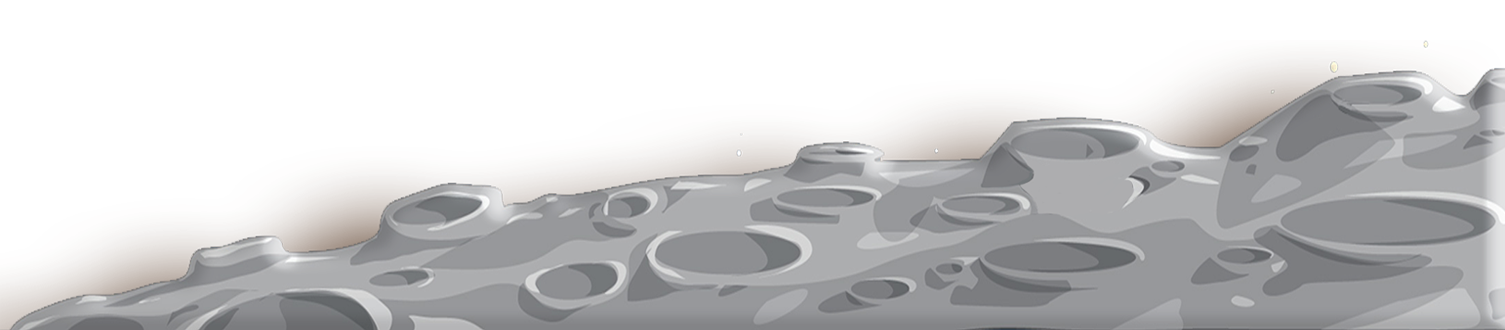
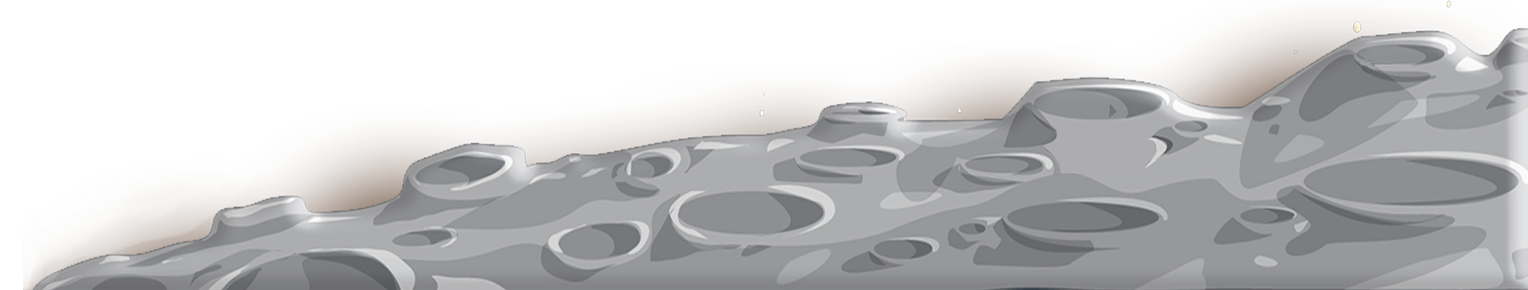
moon_issue

diff --git a/css/style.css b/css/style.css
@@ -1,12 +1,13 @@
     body {
         font-family: 'Palanquin Dark', sans-serif;
         font-size: 24px;
-        max-width: 1920px;
-        width: 100%;
+        max-width: 1900px;
         height: 100vh;
-        margin: auto;
-        background-color: black;
-        overflow: hidden;
+        margin: 0;
+        padding: 0;
+        overflow-x: hidden;
+        color: white;
+        background-color: #0003;
     }
     /*PArt_1_HELP*/
     /*back decoration*/
@@ -15,15 +16,14 @@
         background: url(../img/back_1.jpg) no-repeat;
         position: absolute;
         width: 100%;
-        height: 100%;
+        height: auto;
     }
     
     .moon {
-        background: url(../img/moon.png) no-repeat;
+        /* background: url(../img/moon.png) no-repeat; */
         width: 100%;
         height: 100%;
-        margin-left: 395px;
-        margin-top: 455px;
+        margin-left: 372px;
     }
     /*Logo part*/
     
@@ -41,9 +41,8 @@
         background: url(../img/logo_plate.png) no-repeat top left;
         top: 0;
         width: 100%;
-        height: 100%;
+        height: 30vh;
         position: absolute;
-        z-index: 2;
     }
     
     .logo_text {
@@ -55,6 +54,7 @@
         font-size: 50px;
         line-height: 45px;
         font-weight: 500;
+        z-index: 2;
     }
     
     .logo_text h2 span {
@@ -72,7 +72,7 @@
     /*text plate_Become a Hero*/
     
     .block_hero h2 {
-        margin: 460px auto 20px auto;
+        margin: 260px auto auto auto;
         color: #f1a23e;
         font-size: 50px;
         padding-left: 30%;
@@ -109,21 +109,24 @@
     /*Part_2_TEAM*/
     
     .team {
+        max-width: 1900px;
+        max-height: 1180px;
         width: 100%;
         height: 100%;
         overflow: hidden;
         position: absolute;
+        top: 1180px;
+        left: 0;
     }
     
-    video {
-        max-width: 1920px;
-        height: 100%;
+    .video {
         width: 100%;
+        height: auto;
+        position: absolute;
     }
-    
-    .team_bar {
+    /* .team_bar {
         background: url(../img/board_team.png) no-repeat;
-        top: 100%;
+        top: 110%;
         left: 0;
         width: 100%;
         height: 100%;
@@ -140,4 +143,4 @@
         z-index: 3;
         padding-top: 30px;
         text-align: center;
-    }
+    } */

diff --git a/index.html b/index.html
@@ -9,7 +9,7 @@
     <title>Get-a-Pet - animal shelter</title>
     <link rel="shortcut icon" href="img/favicon.ico" type="image/ico">
     <link rel="stylesheet" href="css/reset.css">
-    <!-- <link rel="stylesheet" href="css/jquery-ui.min.css"> -->
+    <link rel="stylesheet" href="css/jquery-ui.min.css">
     <link href="css/slideWiz.css" rel="stylesheet">
     <link rel="stylesheet" href="css/style.css">
     <script src="js/jquery.js"></script>
@@ -36,16 +36,15 @@
             </div>
         </header>
         <canvas id="loader" width="400" height="400"></canvas>
-        <div class="moon"></div>
         <div class="block_hero">
             <h2>Become a hero!</h2>
             <div class="yellow_box"></div>
             <p><span>support animals</span><br> with your monthly gift<br> to our lifesaving work!</p>
         </div>
-
-        <nav>
-            <div class="menu_bar"></div>
-        </nav>
+        <div class="moon">
+            <img src="img/moon.png" title="moon" alt="moon.png">
+        </div>
+    </div>
     </div>
     <main>
         <div class="team_bar">
@@ -56,9 +55,9 @@
             <div class="slide-container">
             </div>
             <div class="video">
-                <!-- <video autoplay loop muted poster="video/back.jpg" class="back_video">
+                <video autoplay loop muted poster="video/back.jpg" class="back_video">
                     <source src="video/space.mp4" type="video/mp4">
-                </video> -->
+                </video>
             </div>
         </div>
     </main>

diff --git a/css/slideWiz.css b/css/slideWiz.css
@@ -14,6 +14,7 @@
     object-fit: contain;
     bottom: 0;
     padding-left: 5%;
+    z-index: 10;
 }
 
 
